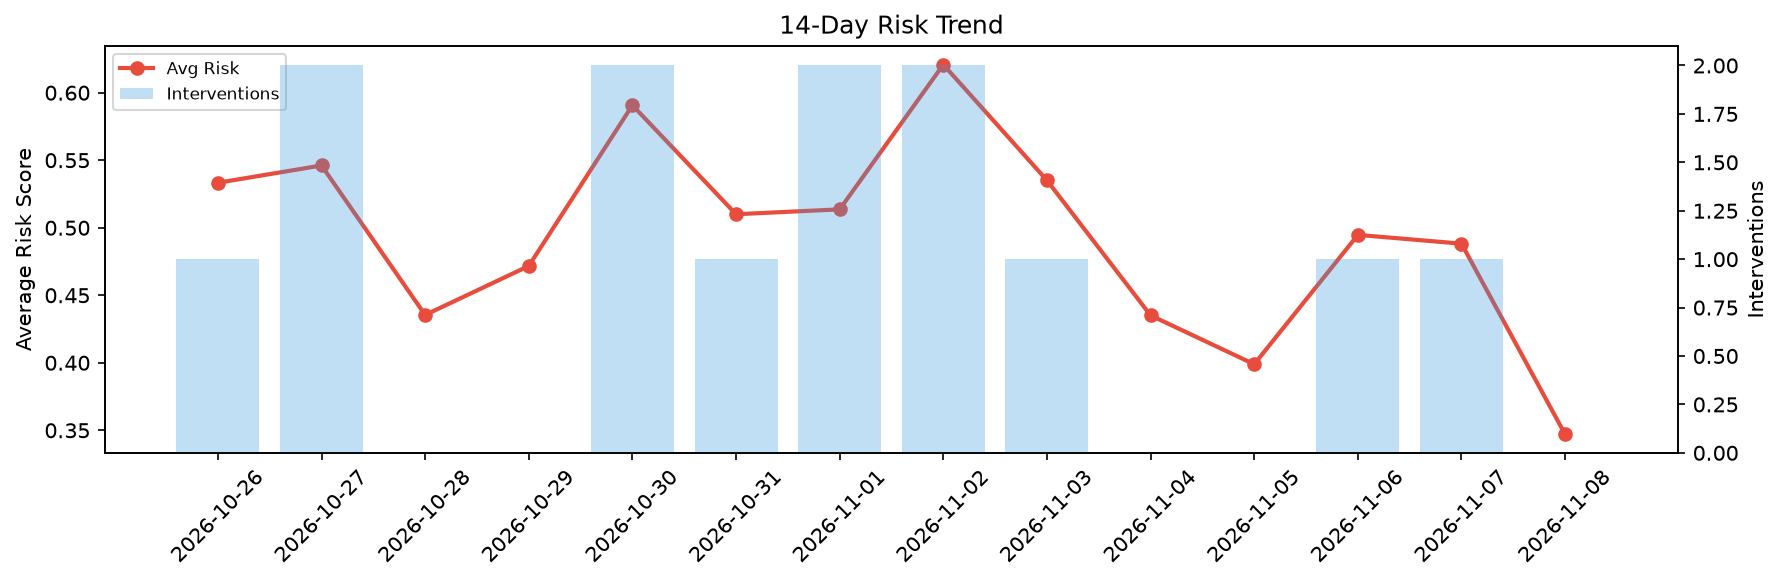
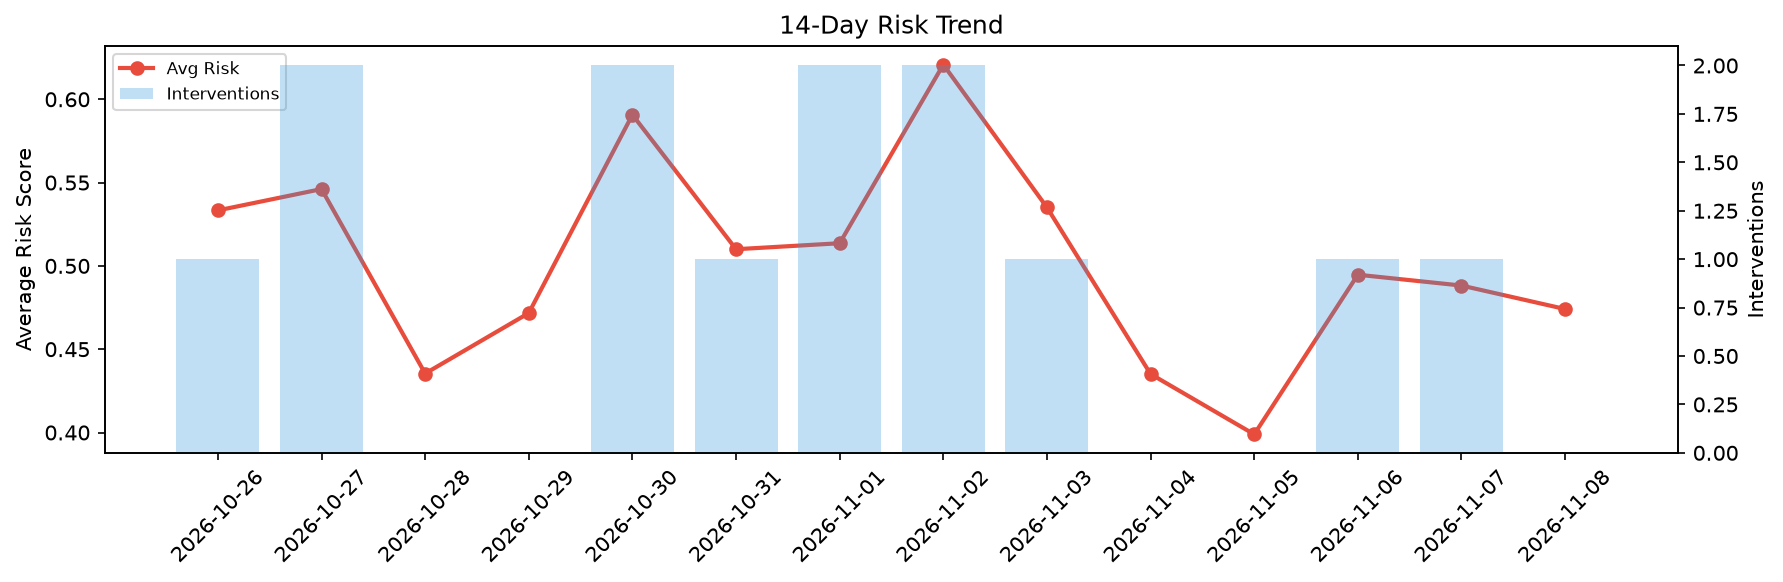
agent-improvement: daily cycle 2026-11-08T18:50

diff --git a/logs/2026-11-08.md b/logs/2026-11-08.md
@@ -1,6 +1,6 @@
 # Agent Improvement Report — 2026-11-08
 
-**Cycle ID:** `a7f58c74` | **Avg Risk:** 0.347 | **Interventions:** 0/4
+**Cycle ID:** `9fda6589` | **Avg Risk:** 0.4741 | **Interventions:** 0/4
 
 ![Dashboard](2026-11-08_dashboard.png)
 
@@ -10,18 +10,18 @@
 
 | Domain | Risk Score | Decision | Alerts |
 |--------|-----------|----------|--------|
-| code_review | 0.5184 | monitor | duplication |
-| incident_response | 0.5445 | monitor | blast_radius |
-| data_pipeline | 0.0611 | monitor | none |
-| deployment | 0.2642 | monitor | none |
+| code_review | 0.4287 | monitor | none |
+| incident_response | 0.5113 | monitor | none |
+| data_pipeline | 0.5092 | monitor | none |
+| deployment | 0.4471 | monitor | rollback_rate |
 
 ## Delta vs Yesterday
 
 | Domain | Today | Yesterday | Change |
 |--------|-------|-----------|--------|
-| code_review | 0.5184 | 0.6723 | 📉 -22.9% |
-| incident_response | 0.5445 | 0.4254 | 📈 28.0% |
-| data_pipeline | 0.0611 | 0.5038 | 📉 -87.9% |
-| deployment | 0.2642 | 0.3514 | 📉 -24.8% |
+| code_review | 0.4287 | 0.6723 | 📉 -36.2% |
+| incident_response | 0.5113 | 0.4254 | 📈 20.2% |
+| data_pipeline | 0.5092 | 0.5038 | 📈 1.1% |
+| deployment | 0.4471 | 0.3514 | 📈 27.2% |
 
-**Refinement:** `{'adjustment': 'maintain', 'trend': 'improving', 'window': 4}`
+**Refinement:** `{'adjustment': 'tighten_thresholds', 'trend': 'degrading', 'window': 4}`
